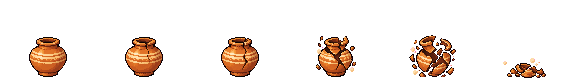
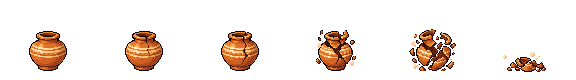
The crate in six frames; debris room below the prop base; magenta-tinted dust turns grey
A two-blow prop stands badly cracked after the first blow, so only the breaking plays on the second.

diff --git a/scripts/sprite-sheets.test.ts b/scripts/sprite-sheets.test.ts
@@ -6,7 +6,7 @@ import { ANIMALS } from "../src/game/animals";
 import { ENEMIES } from "../src/game/enemies";
 import { CELL_H, CELL_W, FOOT_Y, TEXTURE_SCALE } from "../src/render/animal-sprites";
 import { MOB_CELL_H, MOB_CELL_W, MOB_FOOT_Y, MOB_HEIGHT } from "../src/render/mob-sheets";
-import { LOOT_ORDER, PROP_CELL_H, PROP_CELL_W, PROP_FOOT_Y } from "../src/render/prop-sheets";
+import { LOOT_ORDER, PROP_CELL_H, PROP_CELL_W, PROP_FOOT_Y, stagesOf } from "../src/render/prop-sheets";
 import { PROPS } from "../src/game/props";
 // @ts-expect-error -- a plain .mjs build script without type declarations
 import { LOOT_HEIGHT, LOOT_ORDER as SCRIPT_LOOT_ORDER, PROP_HEIGHT } from "./sprite-sheets.mjs";
@@ -114,9 +114,12 @@ describe("prop and loot sheets", () => {
       expect(d).toBe(2);
       const cols = width! / (PROP_CELL_W * d);
       expect(name === "loot" ? [LOOT_ORDER.length] : [1, 3, 5, 6]).toContain(cols);
-      for (const f of await frames(file, cols, 1, PROP_CELL_W * d, PROP_CELL_H * d)) {
+      // Whole and cracked it stands on the line; breaking apart, the pieces may spill lower but stay inside the cell.
+      const standing = name === "loot" ? cols : 1 + stagesOf(cols).cracks;
+      for (const [i, f] of (await frames(file, cols, 1, PROP_CELL_W * d, PROP_CELL_H * d)).entries()) {
         expect(f.corner).toBe(0);
-        expect(Math.abs(f.bottom - PROP_FOOT_Y * d)).toBeLessThanOrEqual(d);
+        if (i < standing) expect(Math.abs(f.bottom - PROP_FOOT_Y * d), `frame ${i}`).toBeLessThanOrEqual(d);
+        else expect(f.bottom, `frame ${i}`).toBeLessThan(PROP_CELL_H * d - 1);
       }
     });
   }

diff --git a/src/render/prop-sheets.ts b/src/render/prop-sheets.ts
@@ -10,7 +10,7 @@ import { loadSheet, type Sheet } from "./sheets";
  * (see stagesOf). Until a sheet exists (or while it loads) the game draws the code sprites.
  */
 export const PROP_CELL_W = 48, PROP_CELL_H = 40;
-export const PROP_FOOT_X = 24, PROP_FOOT_Y = 38;
+export const PROP_FOOT_X = 24, PROP_FOOT_Y = 35;
 
 /** The loot row's order, the same as LOOT_ORDER in scripts/sprite-sheets.mjs. */
 export const LOOT_ORDER: readonly ItemKind[] = ["gold", "crystal", "oil", "chest", "vault", "hoard"];
@@ -36,8 +36,8 @@ export function stagesOf(n: number) {
 export function standingFrame(sheet: Sheet, hp: number, maxHp: number): number {
   const { cracks } = stagesOf(framesOf(sheet));
   if (hp >= maxHp || cracks === 0) return 0;
-  // With two stages, the deeper cracks show once more than half the blows are taken.
-  return cracks === 1 || hp * 2 >= maxHp ? 1 : 2;
+  // With two stages, the deeper cracks show once half the blows or more are taken: a two-blow prop looks badly hit after one.
+  return cracks === 1 || hp * 2 > maxHp ? 1 : 2;
 }
 
 /**

diff --git a/src/render/prop-sheets.test.ts b/src/render/prop-sheets.test.ts
@@ -17,7 +17,7 @@ describe("a prop's frames", () => {
     expect(standingFrame(strip(3), 2, 2)).toBe(0);
     expect(standingFrame(strip(3), 1, 2)).toBe(1);
     expect(standingFrame(strip(6), 2, 2)).toBe(0);
-    expect(standingFrame(strip(6), 1, 2)).toBe(1);
+    expect(standingFrame(strip(6), 1, 2)).toBe(2);
     expect(standingFrame(strip(6), 1, 4)).toBe(2);
   });
 
@@ -26,7 +26,7 @@ describe("a prop's frames", () => {
     // Broken at one blow: every crack and every stage of breaking.
     expect([0, 0.2, 0.4, 0.6, 0.8, 0.99].map(k => breakingFrame(strip(6), k, 1, 1))).toEqual([1, 2, 3, 4, 5, 5]);
     expect([0, 0.5, 0.99].map(k => breakingFrame(strip(3), k, 1, 1))).toEqual([1, 2, 2]);
-    // Broken at the second blow: it stood cracked, so the rest plays.
-    expect([0, 0.5, 0.99].map(k => breakingFrame(strip(6), k, 1, 2))).toEqual([2, 4, 5]);
+    // Broken at the second blow: it stood badly cracked, so only the breaking plays.
+    expect([0, 0.5, 0.99].map(k => breakingFrame(strip(6), k, 1, 2))).toEqual([3, 4, 5]);
   });
 });

diff --git a/HANDOFF.md b/HANDOFF.md
@@ -184,13 +184,14 @@ node scripts/sprite-sheets.mjs [heroes|mobs] [назва]   # сирий AI-ар
 ### Предмети й лут як AI-арт (2026-10-10; кадри «ціле» в грі з 2026-10-11)
 - Власник: предмети, з яких падає лут, мають бути **рівня мобів і героїв**, а не кодові 16×16. Промпти **П1–П3** — у `docs/art/PROMPTS.md`, розділ «Предмети й лут».
 - Скрипт: `node scripts/sprite-sheets.mjs props` бере `art/props/raw/{urn,crate,barrel,sack}.webp` (3 кадри: ціле, з тріщиною, розламується; або поки тільки «ціле») і `art/props/raw/loot.webp` (6 у ряд: золото, кристал, олія, скриня, Sealed Vault, скриня Цербера; кожен масштабується до своєї висоти).
-  Клітинка 48×40 ігрових пікселів, основа в (24, 38), **щільність 2×** (PNG-клітинка 96×80, як у героїв): на 1× обідки, обручі й отвори розмазувались. Фон — уся маджента разом із тінню від AI (гра малює свою тінь). Висоти — `PROP_HEIGHT` і `LOOT_HEIGHT` у скрипті.
+  Клітинка 48×40 ігрових пікселів, основа в (24, 35) (знизу 5 px на уламки, що розлітаються нижче основи), **щільність 2×** (PNG-клітинка 96×80, як у героїв): на 1× обідки, обручі й отвори розмазувались. Фон — уся маджента разом із тінню від AI (гра малює свою тінь). Висоти — `PROP_HEIGHT` і `LOOT_HEIGHT` у скрипті.
 - Гра (`src/render/prop-sheets.ts`): якщо `public/props/<ім'я>.png` є — малює його. Смужка має 1, 3 або 6 кадрів (`stagesOf`: ціле → 1–2 стадії тріщин → 1–3 стадії розламу); кількість скрипт бере з пропорцій картинки (ширина / висота). Тріщини — за залишком міцності, розлам — ефект `shatter` у `fx.ts` (~0,4 с, кадр за кадром); лут на підлозі й лут, що вилітає, — з `loot.png`). Якщо файлу немає — старі кодові спрайти. Перевірено на тестових фігурах.
 
 ### Удари й світло (2026-10-11, рішення власника)
 - **Удар не забирає світло** — ні по предмету, ні по мобу (`endTurn(state, false)` у `run.ts`); світло палять кроки й очікування. Регенерація все одно тікає.
 - **Предмети розбиваються за кількістю ударів, не за силою зброї:** глек і мішок — 1, ящик і бочка — 2, кирка — все з одного (`hp` у `props.ts` — це удари).
 - Розлам грає з того етапу, на якому предмет стояв, до кінця (`breakingFrame`): глек з одного удару проходить усі 6 кадрів за ~0,56 с.
+  Ящик і бочка після першого з двох ударів стоять у кадрі 3 («сильно пошкоджений»), щоб було видно: ще один удар.
 - Наслідок: гра легша. 3 фляги → у середньому 6.2 поверху (було 4.9), половина спусків доходить до Цербера; боти збирають ~7,9 золота на цент → `FIELD_GOLD_PER_CENT` 5.5 → **6.8**. Якщо власник скаже, що надто легко, — підняти ціну кроку (`stepCost` у `config.ts`).
 - Зміна правил → сервер підпису збирати з того самого коду (12-го так і буде).
 
@@ -257,7 +258,8 @@ PNG героїв стискаються до палітри 256 кольорів
 1. **Графіка:**
    - [x] П1 затверджено (2026-10-11): глек, ящик, бочка, мішок у грі (кадр «ціле»).
    - [x] Глек: 6 кадрів (П2б) у грі, 2026-10-11 (`PROP_FRAMES` у скрипті: AI намалював 6 кадрів на полотні 3:1).
-   - [ ] Ящик, бочка, мішок — одразу П2б (6 етапів), потім П3 (лут і скрині). Власнику давати **один крок за раз**.
+   - [x] Ящик: 6 кадрів у грі, 2026-10-11 (теж `PROP_FRAMES`). Рожевий від маджента пил скрипт перефарбовує в сірий (`untint`).
+   - [ ] Бочка, мішок — одразу П2б (6 етапів), потім П3 (лут і скрині). Власнику давати **один крок за раз**.
    - [ ] Кістки з `props-lineup-v2.webp` — як прикраса печери (не розбиваються).
    - [x] Перенесення всіх 8 героїв у щільності 2× і округлі очі — власник підтвердив (2026-10-08).
    - [ ] Портрети NFT на картках — або перші кадри тваринок, або нові AI-портрети.

diff --git a/docs/art/PROMPTS.md b/docs/art/PROMPTS.md
@@ -392,7 +392,9 @@ Plain flat magenta background (#FF00FF).
 ## П2б. Довша анімація: 6 етапів (2026-10-11)
 
 Власник: «ахірена анімація вийде, можна навіть розбити на 5-6 етапів». Гра й скрипт розуміють смужку з 1, 3 або 6 кадрів:
-**6 = ціле, 2 стадії тріщин, 3 стадії розламу.** Тріщини гра показує за тим, скільки міцності лишилось (друга — коли менше половини), розлам програється за ~0,4 с.
+**6 = ціле, 2 стадії тріщин, 3 стадії розламу.** Тріщини гра показує за тим, скільки ударів лишилось (друга — коли взято половину або більше: ящик після першого з двох), розлам програється за ~0,56 с.
+
+**Затверджено (2026-10-11):** глек і ящик (6 кадрів). Для предмета з одним кадром (`props-lineup-v2.webp`) — промпт нижче, але «the wooden crate from the attached image (the second prop from the left)» замість 3-кадрової смужки.
 Прикріпи готову 3-кадрову смужку цього предмета (`art/props/raw/<предмет>.webp`):
 
 ```
